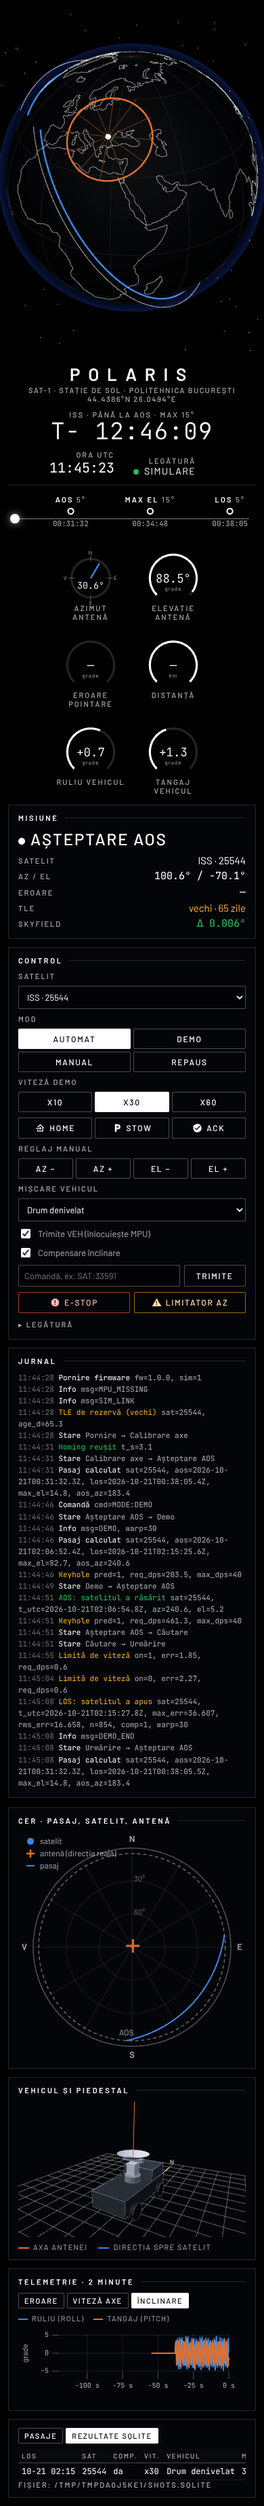
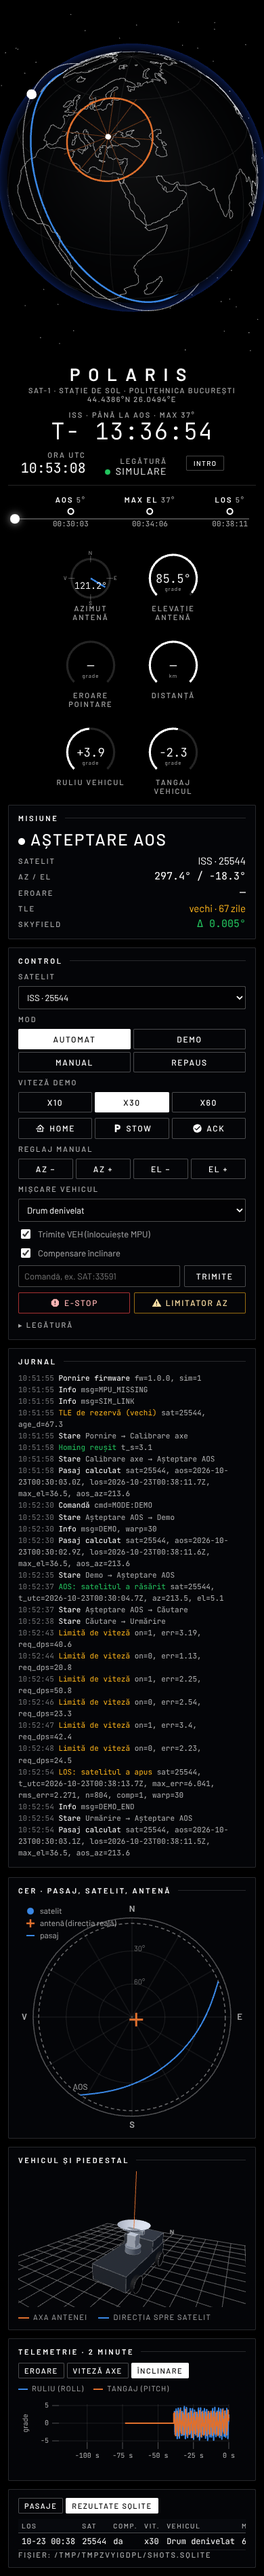
Intro la prima vizita: titlu, prezentare, sondaj GO/NO-GO din date reale, apropierea globului

diff --git a/ground_station/polaris_gs/web/intro.js b/ground_station/polaris_gs/web/intro.js
@@ -1,0 +1,120 @@
+// One-time intro, in the style of a launch webcast: title, a few lines about
+// the system, a GO / NO-GO poll built from live data, then the globe flies in.
+// Shown on the first visit only; ?intro=1 replays it, ?intro=0 skips it.
+
+const KEY = "polaris.introSeen";
+const sleep = ms => new Promise(r => setTimeout(r, ms));
+
+function seen() {
+  try { return localStorage.getItem(KEY) === "1"; } catch { return false; }
+}
+function markSeen() {
+  try { localStorage.setItem(KEY, "1"); } catch { /* private mode: show again next time */ }
+}
+
+export function shouldRun() {
+  const q = new URLSearchParams(location.search).get("intro");
+  if (q === "1") return true;
+  if (q === "0") return false;
+  return !seen();
+}
+
+// live: () => ({ hello, tm, xdiff }) with whatever the station has sent so far
+export async function runIntro(live, onReveal) {
+  const reduced = matchMedia("(prefers-reduced-motion: reduce)").matches;
+  const root = document.createElement("div");
+  root.id = "intro";
+  root.innerHTML = `
+    <div class="i-line" id="i-line"></div>
+    <div class="i-stage" id="i-stage"></div>
+    <button class="i-skip" id="i-skip" type="button">Sari peste <span class="lbl">Esc</span></button>`;
+  document.body.appendChild(root);
+  document.body.classList.add("intro-on");
+  let cancelled = false;
+  const stage = root.querySelector("#i-stage");
+  const finish = () => { cancelled = true; };
+  root.querySelector("#i-skip").onclick = finish;
+  const onKey = e => { if (e.key === "Escape" || e.key === " " || e.key === "Enter") finish(); };
+  window.addEventListener("keydown", onKey);
+  const wait = async ms => {
+    const end = performance.now() + (reduced ? Math.min(ms, 300) : ms);
+    while (!cancelled && performance.now() < end) await sleep(50);
+    return !cancelled;
+  };
+  const show = html => {
+    stage.innerHTML = html;
+    stage.classList.remove("out");
+    void stage.offsetWidth;
+    stage.classList.add("in");
+  };
+  const hide = async () => { stage.classList.add("out"); await wait(450); };
+
+  try {
+    // 1. horizon line, then the name letter by letter
+    root.querySelector("#i-line").classList.add("grow");
+    if (!await wait(900)) return;
+    show(`<div class="i-title" aria-label="POLARIS">${[..."POLARIS"].map((c, i) =>
+      `<span style="animation-delay:${0.08 * i}s">${c}</span>`).join("")}</div>
+      <div class="i-sub">SAT-1 · antenă de urmărire a sateliților, montată pe vehicul</div>`);
+    if (!await wait(2600)) return;
+    root.querySelector("#i-line").classList.add("gone");
+    await hide();
+
+    // 2. what it is
+    show(`<div class="i-facts">
+      ${[["Predicție orbitală", "SGP4 Vallado, verificat la 0,12 mm"],
+         ["Compensare", "ruliu, tangaj și giruire ale vehiculului"],
+         ["Siguranță", "E-STOP hardware, limitatoare, homing cu timp limită"],
+         ["Stație de sol", "Politehnica București · 44.4386°N 26.0494°E"]]
+        .map(([k, v], i) => `<div class="i-fact" style="animation-delay:${0.35 * i}s"><span class="lbl">${k}</span><span>${v}</span></div>`).join("")}
+      </div>`);
+    if (!await wait(3400)) return;
+    await hide();
+
+    // 3. GO / NO-GO poll from live data
+    show(`<div class="i-poll"><div class="lbl i-poll-h">Verificare înainte de urmărire · GO / NO-GO</div><div id="i-rows"></div></div>`);
+    const rows = stage.querySelector("#i-rows");
+    const checks = [
+      ["Legătură", () => { const l = live(); return l.hello ? [l.linkOk, l.isSim ? "simulare internă" : (l.linkOk ? "conectat" : "fără legătură")] : null; }],
+      ["Timp UTC", () => { const t = live().tm; return t ? [true, t.t_utc.slice(11, 19)] : null; }],
+      ["Elemente orbitale", () => { const t = live().tm; return t ? [true, t.tle_fb ? `rezervă · ${t.tle_age.toFixed(0)} zile` : `actuale · ${t.tle_age.toFixed(1)} zile`] : null; }],
+      ["Verificare skyfield", () => { const x = live().xdiff; return x != null ? [x < 0.1, `Δ ${x.toFixed(3)}°`] : null; }],
+      ["Axe calibrate", () => {
+        const t = live().tm;
+        if (!t) return null;
+        const bad = { BOOT: "pornire", HOMING: "homing în curs", FAULT: "defect", ESTOP: "oprire de urgență" }[t.mode];
+        return [!bad, bad || "homing reușit"];
+      }],
+    ];
+    for (const [name, fn] of checks) {
+      const row = document.createElement("div");
+      row.className = "i-row";
+      row.innerHTML = `<span class="n">${name}</span><span class="dots"></span><span class="d"></span><span class="v">…</span>`;
+      rows.appendChild(row);
+      // wait for real data a little, then report what we have
+      let r = null;
+      for (let i = 0; i < 16 && !(r = fn()); i++) if (!await wait(150)) return;
+      if (!await wait(380)) return;
+      const go = r ? r[0] : false;
+      row.querySelector(".d").textContent = r ? r[1] : "fără date";
+      const v = row.querySelector(".v");
+      v.textContent = go ? "GO" : "AȘTEPT";
+      v.className = "v " + (go ? "go" : "hold");
+    }
+    if (!await wait(900)) return;
+    await hide();
+
+    // 4. the call
+    show(`<div class="i-go">POLARIS ESTE <b>GO</b></div><div class="i-sub">pentru urmărirea sateliților</div>`);
+    if (!await wait(1700)) return;
+  } finally {
+    window.removeEventListener("keydown", onKey);
+    markSeen();
+    root.classList.add("done");
+    document.body.classList.remove("intro-on");
+    document.documentElement.classList.remove("intro-pending");
+    document.body.classList.add("reveal");
+    onReveal && onReveal(reduced || cancelled);
+    setTimeout(() => { root.remove(); document.body.classList.remove("reveal"); }, 1600);
+  }
+}

diff --git a/ground_station/polaris_gs/web/style.css b/ground_station/polaris_gs/web/style.css
@@ -190,3 +190,57 @@ details > *:not(summary) { margin-top: 6px; }
   .gauge { width: 104px; }
   .gauge svg { width: 104px; height: 90px; }
 }
+
+/* ---------------------------------------------------------------- intro */
+#intro-btn { padding: 4px 10px; font-size: 10px; align-self: center; }
+body.intro-on #hud, html.intro-pending #hud { opacity: 0; }
+body.reveal #hud > * { animation: hud-in .9s cubic-bezier(.2, .7, .2, 1) both; }
+body.reveal #top { animation-delay: .15s; }
+body.reveal #left { animation-delay: .45s; }
+body.reveal #right { animation-delay: .6s; }
+body.reveal #bottom { animation-delay: .8s; }
+@keyframes hud-in { from { opacity: 0; transform: translateY(14px); } to { opacity: 1; transform: none; } }
+
+#intro {
+  position: fixed; inset: 0; z-index: 100; background: #000; display: grid; place-items: center;
+  transition: opacity 1.2s ease;
+}
+#intro.done { opacity: 0; pointer-events: none; }
+.i-line { position: absolute; left: 50%; top: 50%; width: 0; height: 1px; background: rgba(255, 255, 255, .5); transform: translate(-50%, 118px); }
+.i-line.grow { animation: line-grow 1.2s cubic-bezier(.3, .8, .2, 1) forwards; }
+.i-line.gone { opacity: 0; transition: opacity .5s ease; }
+@keyframes line-grow { to { width: min(720px, 80vw); } }
+.i-stage { text-align: center; padding: 0 20px; opacity: 0; transition: opacity .45s ease; }
+.i-stage.in { opacity: 1; }
+.i-stage.out { opacity: 0; }
+.i-title { font-size: clamp(44px, 9vw, 104px); font-weight: 300; letter-spacing: .5em; margin-right: -.5em; }
+.i-title span { display: inline-block; opacity: 0; filter: blur(8px); animation: letter .9s ease forwards; }
+@keyframes letter { to { opacity: 1; filter: none; } }
+.i-sub { margin-top: 18px; color: var(--text-2); font-size: 14px; letter-spacing: .32em; text-transform: uppercase; opacity: 0; animation: fade 1s ease .9s forwards; }
+@keyframes fade { to { opacity: 1; } }
+.i-facts { display: grid; gap: 18px; text-align: left; min-width: min(640px, 86vw); }
+.i-fact { display: grid; grid-template-columns: 220px 1fr; gap: 20px; align-items: baseline; font-size: 22px; font-weight: 300;
+  opacity: 0; transform: translateX(-12px); animation: slide .7s ease forwards; border-bottom: 1px solid var(--line); padding-bottom: 12px; }
+@keyframes slide { to { opacity: 1; transform: none; } }
+.i-poll { min-width: min(620px, 88vw); text-align: left; }
+.i-poll-h { margin-bottom: 18px; text-align: center; }
+.i-row { display: flex; align-items: baseline; gap: 12px; font-family: var(--mono); font-size: 18px; padding: 7px 0;
+  opacity: 0; animation: fade .35s ease forwards; }
+.i-row .n { text-transform: uppercase; letter-spacing: .12em; }
+.i-row .dots { flex: 1; border-bottom: 1px dotted rgba(255, 255, 255, .3); transform: translateY(-5px); }
+.i-row .d { color: var(--text-2); font-size: 14px; }
+.i-row .v { width: 90px; text-align: right; font-weight: 400; }
+.i-row .v.go { color: var(--good); }
+.i-row .v.hold { color: var(--warning); }
+.i-go { font-size: clamp(32px, 6vw, 64px); font-weight: 300; letter-spacing: .3em; }
+.i-go b { font-weight: 600; color: var(--good); }
+.i-skip { position: absolute; right: 28px; bottom: 26px; padding: 8px 14px; border-color: rgba(255, 255, 255, .25); color: var(--text-2); }
+.i-skip .lbl { margin-left: 8px; font-size: 9px; }
+@media (max-width: 760px) {
+  .i-fact { grid-template-columns: 1fr; gap: 4px; font-size: 18px; }
+  .i-row { font-size: 14px; }
+  .i-row .d { display: none; }
+}
+@media (prefers-reduced-motion: reduce) {
+  .i-title span, .i-sub, .i-fact, .i-row, body.reveal #hud > * { animation-duration: .01s; animation-delay: 0s; }
+}

diff --git a/ground_station/polaris_gs/web/app.js b/ground_station/polaris_gs/web/app.js
@@ -5,6 +5,7 @@ import { GlobeView } from "./globe.js";
 import { VehicleView } from "./vehicle.js";
 import { SkyPlot } from "./sky.js";
 import { Charts } from "./charts.js";
+import { runIntro, shouldRun } from "./intro.js";
 
 const cssVar = n => getComputedStyle(document.documentElement).getPropertyValue(n).trim();
 const CSS = {
@@ -119,6 +120,7 @@ try {
 
 // ------------------------------------------------------------ connection
 let ws = null, hello = null, isSim = false, curPass = null, lastTm = null;
+let linkOk = false, xdiff = null, flyPending = false;
 function send(msg) { if (ws && ws.readyState === 1) ws.send(JSON.stringify(msg)); }
 function cmd(text) { send({ op: "cmd", text }); }
 
@@ -144,6 +146,7 @@ const HANDLERS = {
     if (!globe) {
       try {
         globe = new GlobeView($("globe"), CSS, m.station.ecef, m.mask_el);
+        if (flyPending) { flyPending = false; globe.flyIn(); }
       } catch (e) {
         $("globe").innerHTML = `<p class="lbl" style="padding:24px">WebGL indisponibil: ${esc(e.message)}</p>`;
       }
@@ -168,12 +171,13 @@ const HANDLERS = {
       }
       setWarp(m.default_warp);
     }
+    linkOk = m.link.ok;
     status(m.link.text, m.link.ok);
     settings(m);
     charts.reset([]);
     $("log").innerHTML = "";
   },
-  status(m) { isSim = m.sim; status(m.text, m.ok); settings(null); },
+  status(m) { isSim = m.sim; linkOk = m.ok; status(m.text, m.ok); settings(null); },
   settings(m) { settings(m); },
   history(m) { charts.reset(m.rows); },
   tm(m) { telemetry(m.d); },
@@ -181,6 +185,7 @@ const HANDLERS = {
   orbit(m) { if (globe) globe.setOrbit(m.pos, m.track); },
   passes(m) { passes(m); },
   xcheck(m) {
+    xdiff = m.diff;
     const ok = m.diff < 0.1;
     $("kv-x").innerHTML = `<span style="color:${ok ? CSS.good : CSS.critical}">Δ ${m.diff.toFixed(3)}°</span>`;
   },
@@ -377,3 +382,13 @@ document.querySelectorAll(".tab[data-chart]").forEach(t => {
 });
 
 connect();
+
+// ------------------------------------------------------------ intro (first visit, or the INTRO button)
+function startIntro() {
+  runIntro(() => ({ hello, linkOk, isSim, tm: lastTm, xdiff }), fast => {
+    if (fast) return;
+    if (globe) globe.flyIn(); else flyPending = true;
+  });
+}
+$("intro-btn").onclick = startIntro;
+if (shouldRun()) startIntro();

diff --git a/ground_station/polaris_gs/web/globe.js b/ground_station/polaris_gs/web/globe.js
@@ -128,6 +128,29 @@ export class GlobeView {
     line.visible = true;
   }
 
+  // intro: the camera arrives from far away while turning towards the station
+  flyIn(ms = 2800) {
+    const end = new THREE.Spherical().setFromVector3(this.camera.position);
+    const start = new THREE.Spherical(end.radius * 4.2, end.phi * 0.8, end.theta + 1.2);
+    const maxD = this.controls.maxDistance;
+    this.controls.maxDistance = 1000;
+    this.controls.enabled = false;
+    const t0 = performance.now();
+    return new Promise(resolve => {
+      const step = () => {
+        const k = Math.min(1, (performance.now() - t0) / ms);
+        const e = 1 - Math.pow(1 - k, 3);
+        const sp = new THREE.Spherical(start.radius + (end.radius - start.radius) * e,
+          start.phi + (end.phi - start.phi) * e, start.theta + (end.theta - start.theta) * e);
+        this.camera.position.setFromSpherical(sp);
+        this.camera.lookAt(0, 0, 0);
+        if (k < 1) requestAnimationFrame(step);
+        else { this.controls.maxDistance = maxD; this.controls.enabled = true; resolve(); }
+      };
+      step();
+    });
+  }
+
   resize() {
     const w = this.el.clientWidth, h = this.el.clientHeight;
     if (!w || !h) return;

diff --git a/ground_station/polaris_gs/web/index.html b/ground_station/polaris_gs/web/index.html
@@ -5,6 +5,14 @@
 <meta name="viewport" content="width=device-width, initial-scale=1">
 <title>POLARIS Ground Station</title>
 <link rel="icon" id="favicon" href="data:,">
+<script>
+  // hide the HUD before the first paint when the one-time intro will run
+  try {
+    var q = new URLSearchParams(location.search).get("intro");
+    if (q === "1" || (q !== "0" && localStorage.getItem("polaris.introSeen") !== "1"))
+      document.documentElement.classList.add("intro-pending");
+  } catch (e) {}
+</script>
 <link rel="stylesheet" href="/static/vendor/fonts/fonts.css">
 <link rel="stylesheet" href="/static/vendor/uplot/uPlot.min.css">
 <link rel="stylesheet" href="/static/style.css">
@@ -28,6 +36,7 @@
     <div class="topright">
       <div><div class="lbl">Ora UTC</div><div class="mid mono" id="utc">--:--:--</div></div>
       <div><div class="lbl">Legătură</div><div class="mid" id="link-mini"><span class="dot"></span>—</div></div>
+      <button id="intro-btn" class="ghost" type="button" title="Revezi prezentarea de început">Intro</button>
       <div id="server" class="lbl"></div>
     </div>
   </header>

diff --git a/ground_station/polaris_gs/web/vehicle.js b/ground_station/polaris_gs/web/vehicle.js
@@ -93,7 +93,7 @@ export class VehicleView {
     grid.material.opacity = 0.35;
     this.scene.add(grid);
     const north = new THREE.BufferGeometry().setFromPoints([new THREE.Vector3(0, 0, 0.01), new THREE.Vector3(0, 7, 0.01)]);
-    this.world.add(new THREE.Line(north, new THREE.LineBasicMaterial({ color: css.muted })));
+    this.world.add(new THREE.Line(north, new THREE.LineBasicMaterial({ color: 0xffffff, transparent: true, opacity: 0.4 })));
     const n = textSprite("N", css.text2);
     n.position.set(0, 7.6, 0.3);
     this.world.add(n);

diff --git a/tools/screenshots.py b/tools/screenshots.py
@@ -43,7 +43,23 @@ def main():
             pg = b.new_page(viewport={"width": 1920, "height": 1080})
             pg.on("console", lambda m: errors.append(m.text) if m.type == "error" else None)
             pg.on("pageerror", lambda e: errors.append(str(e)))
-            pg.goto(f"http://127.0.0.1:{port}/")
+            # the one-time intro: title, then the GO / NO-GO poll, then the reveal
+            pg.goto(f"http://127.0.0.1:{port}/?intro=1")
+            time.sleep(3.4)
+            pg.screenshot(path=str(out / "intro_title.png"))
+            pg.wait_for_function("[...document.querySelectorAll('.i-row .v')].filter(v => v.textContent !== '…').length >= 5",
+                                 timeout=30000)
+            time.sleep(0.6)
+            pg.screenshot(path=str(out / "intro_poll.png"))
+            pg.wait_for_function("document.body.classList.contains('reveal')", timeout=30000)
+            time.sleep(1.2)
+            pg.screenshot(path=str(out / "intro_reveal.png"))
+            pg.wait_for_function("!document.getElementById('intro')", timeout=30000)
+            time.sleep(1.0)
+            seen = pg.evaluate("localStorage.getItem('polaris.introSeen')")
+            assert seen == "1", "the intro must be marked as seen"
+            pg.goto(f"http://127.0.0.1:{port}/")      # second visit: no intro
+            assert pg.query_selector("#intro") is None, "the intro must run only once"
             pg.wait_for_function("document.querySelector('#state-text').textContent.includes('Așteptare')",
                                  timeout=30000)
             time.sleep(4.0)                     # orbit and passes arrive at 2 Hz

diff --git a/README.ro.md b/README.ro.md
@@ -289,6 +289,10 @@ aceeași rețea), `--no-browser`, `--db <fișier.sqlite>`.
                 ◄──comenzi────  legătură, SQLite, skyfield  ◄──butoane───  three.js, uPlot
 ```
 
+La prima vizită pagina rulează un intro scurt: titlul, ce face sistemul, un sondaj GO / NO-GO făcut
+din date reale și apoi apropierea globului. Rulează o singură dată pe browser; butonul INTRO sau
+`?intro=1` îl reiau, Esc îl sare.
+
 Pagina are un aspect de centru de control al misiunii: globul ocupă tot ecranul, un ceas T−/T+
 numără până la AOS, o bandă de timp arată AOS, elevația maximă și LOS, iar cadrane circulare arată
 antena și vehiculul.

diff --git a/README.md b/README.md
@@ -291,6 +291,10 @@ network), `--no-browser`, `--db <file.sqlite>`.
                 ◄──commands───  link, SQLite, skyfield      ◄──buttons───  three.js, uPlot
 ```
 
+On the first visit the page plays a short intro (title, what the system does, a GO / NO-GO poll built
+from live data, then the globe flies in). It runs once per browser; the INTRO button or `?intro=1`
+replays it, Esc skips it.
+
 The page uses a mission control layout: the globe fills the screen, a T−/T+ clock counts down to
 AOS, a timeline shows AOS, maximum elevation and LOS, and ring gauges show the antenna and vehicle.
 
